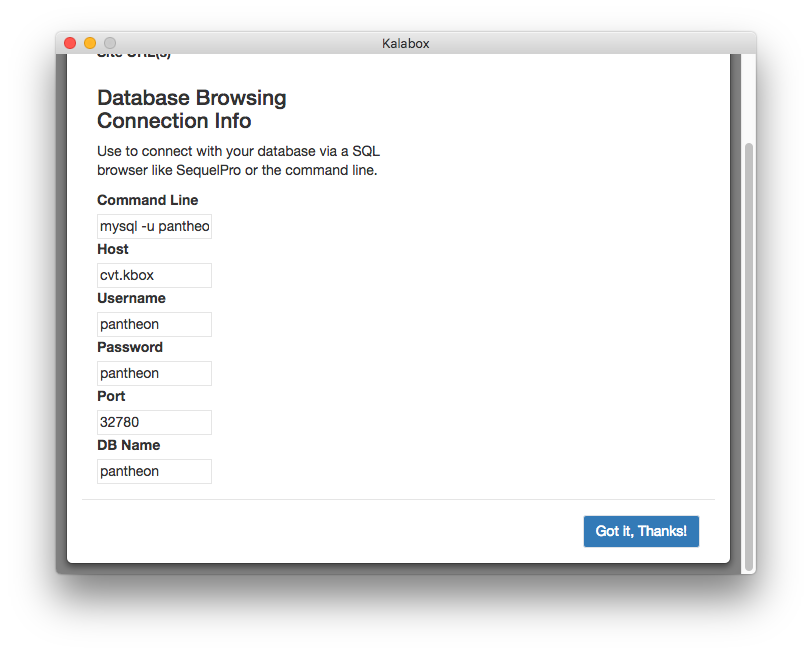
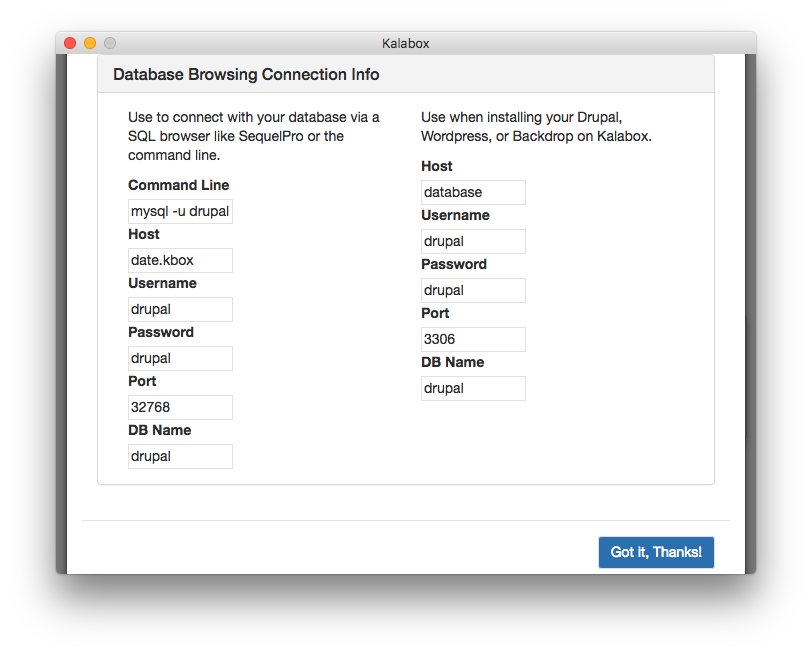
#1600: Update docs to reflect how to use internal and external db connection info

diff --git a/docs/users/cli.md b/docs/users/cli.md
@@ -171,7 +171,7 @@ kbox rebuild -- -v
 services
 --------
 
-Displays relevant connection information for your PHP services. You can use this information to connect to your database from an external DB client like [SQLPro](http://www.sequelpro.com/) or to enter correct DB credentials during the setup of Drupal sites.
+Displays relevant connection information for your PHP services. You can use this information to connect to your database from an external DB client like [SQLPro](http://www.sequelpro.com/) or to enter correct DB credentials during the setup of PHP sites.
 
 `kbox services`
 
@@ -180,4 +180,78 @@ Options:
   -h, --help     Display help message.                                 [boolean]
   -v, --verbose  Use verbose output.                                   [boolean]
   --debug        Use debug output.                                     [boolean]
+```
+
+```
+# Get external db connection info for SequelPro or other sqlClient
+kbox services
+[
+  {
+    "name": "appserver",
+    "project": "date",
+    "url": [
+      "http://date.kbox"
+    ]
+  },
+  {
+    "name": "db",
+    "project": "date",
+    # Use these settings for external connections
+    "external_connection_info": {
+      "database": "drupal",
+      "user": "drupal",
+      "password": "drupal",
+      "host": "date.kbox",
+      "port": "32768"
+    },
+    # Ignore these settings for external connections
+    "internal_connection_info": {
+      "database": "drupal",
+      "user": "drupal",
+      "password": "drupal",
+      "host": "database",
+      "port": 3306
+    }
+  },
+  {
+    "name": "unison",
+    "project": "date"
+  }
+]
+
+# Get internal db connection info for settings up a drupal, backdrop or wordpress site
+kbox services
+[
+  {
+    "name": "appserver",
+    "project": "date",
+    "url": [
+      "http://date.kbox"
+    ]
+  },
+  {
+    "name": "db",
+    "project": "date",
+    # Do not use these settings for internal connections
+    "external_connection_info": {
+      "database": "drupal",
+      "user": "drupal",
+      "password": "drupal",
+      "host": "date.kbox",
+      "port": "32768"
+    },
+    # use these settings for internal connections
+    "internal_connection_info": {
+      "database": "drupal",
+      "user": "drupal",
+      "password": "drupal",
+      "host": "database",
+      "port": 3306
+    }
+  },
+  {
+    "name": "unison",
+    "project": "date"
+  }
+]
 ```

diff --git a/docs/users/gui.md b/docs/users/gui.md
@@ -50,9 +50,13 @@ Get Database Connection Info
 
 ![Site actions dropdown](../images/siteActions.png)
 
-If you click the "Actions" gear symbol on your new PHP app, you'll see a number of options. Select "Connection Info" to see the database credentials to connect to your apps database from a browser like [PHPMyAdmin](https://www.phpmyadmin.net) or [SQLPro](http://www.sequelpro.com/):
+If you click the "Actions" gear symbol on your new PHP app, you'll see a number of options. Select "Connection Info" to see the database credentials to connect to your apps database from a browser like [PHPMyAdmin](https://www.phpmyadmin.net) or [SQLPro](http://www.sequelpro.com/) or to connect during the installation of your app.
 
 ![Connection info](../images/connectionInfo.png)
+
+The left side of your connection info will contain the credentials to connect to your database from an external client like SequelPro. The right side of the info will contain information you can use during the installation of Drupal. WordPress and Backdrop should be able to detect these settings automatically.
+
+You can also use the right side connection info for any local specific code.
 
 Deploying Your Work
 -------------------

diff --git a/CHANGELOG.md b/CHANGELOG.md
@@ -1,20 +1,25 @@
+v2.0.1
+======
+
+* Updated documentation to better reflect how to use `db` connection info. [#1600](https://github.com/kalabox/kalabox/issues/1600)
+
 v2.0.0
-==================
+======
 
 * No changes! Bumping for version parity across major projects.
 
 v0.13.0-rc.2
-==================
+============
 
 * No changes! Bumping for version parity across major projects.
 
 v0.13.0-rc.1
-==================
+============
 
 * Updated `kbox services` output to be more helpful. [#1551](https://github.com/kalabox/kalabox/issues/1551)
 
 v0.13.0-beta.2
-==================
+==============
 
 * Rebooted documentation. [#1322](https://github.com/kalabox/kalabox/issues/1322)
 * Improved app to better work with new `unison` file sharing. [#1440](https://github.com/kalabox/kalabox/issues/1440)
@@ -23,7 +28,7 @@ v0.13.0-beta.2
 * Fixed broken links in main `README.md` and `RTD` index.
 
 v0.13.0-alpha.1
-==================
+===============
 
 * Upgraded to 0.13.x. [#1409](https://github.com/kalabox/kalabox/issues/1409)
 * Refactored app to include connectors previously found in core. [#1223](https://github.com/kalabox/kalabox/issues/1223)
